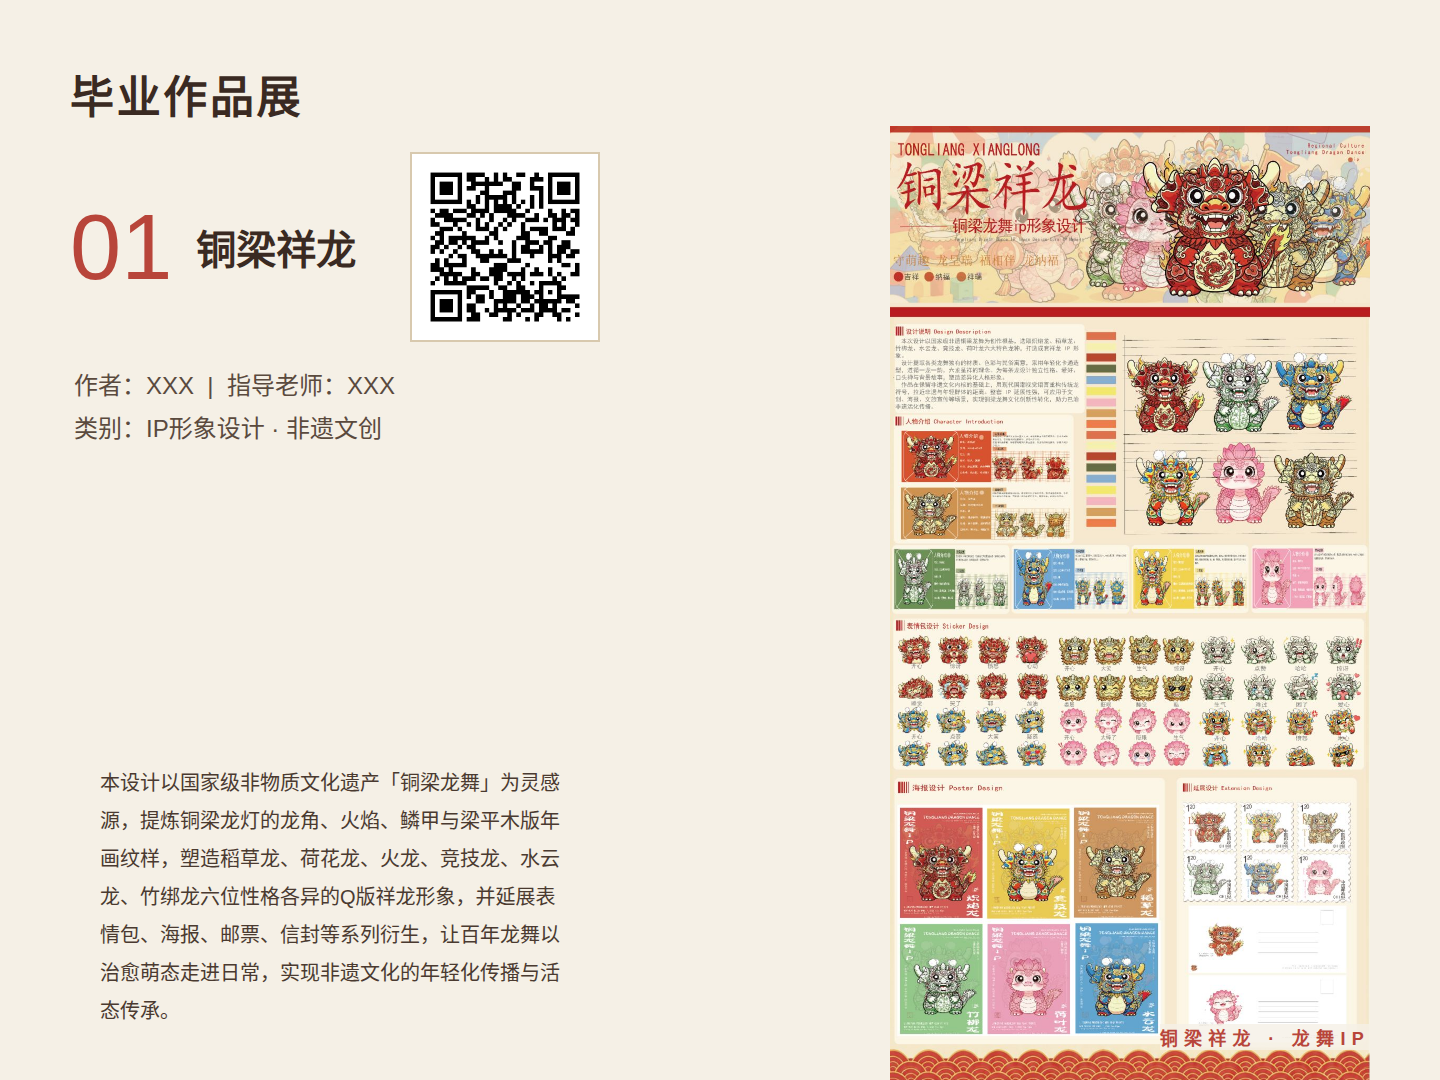
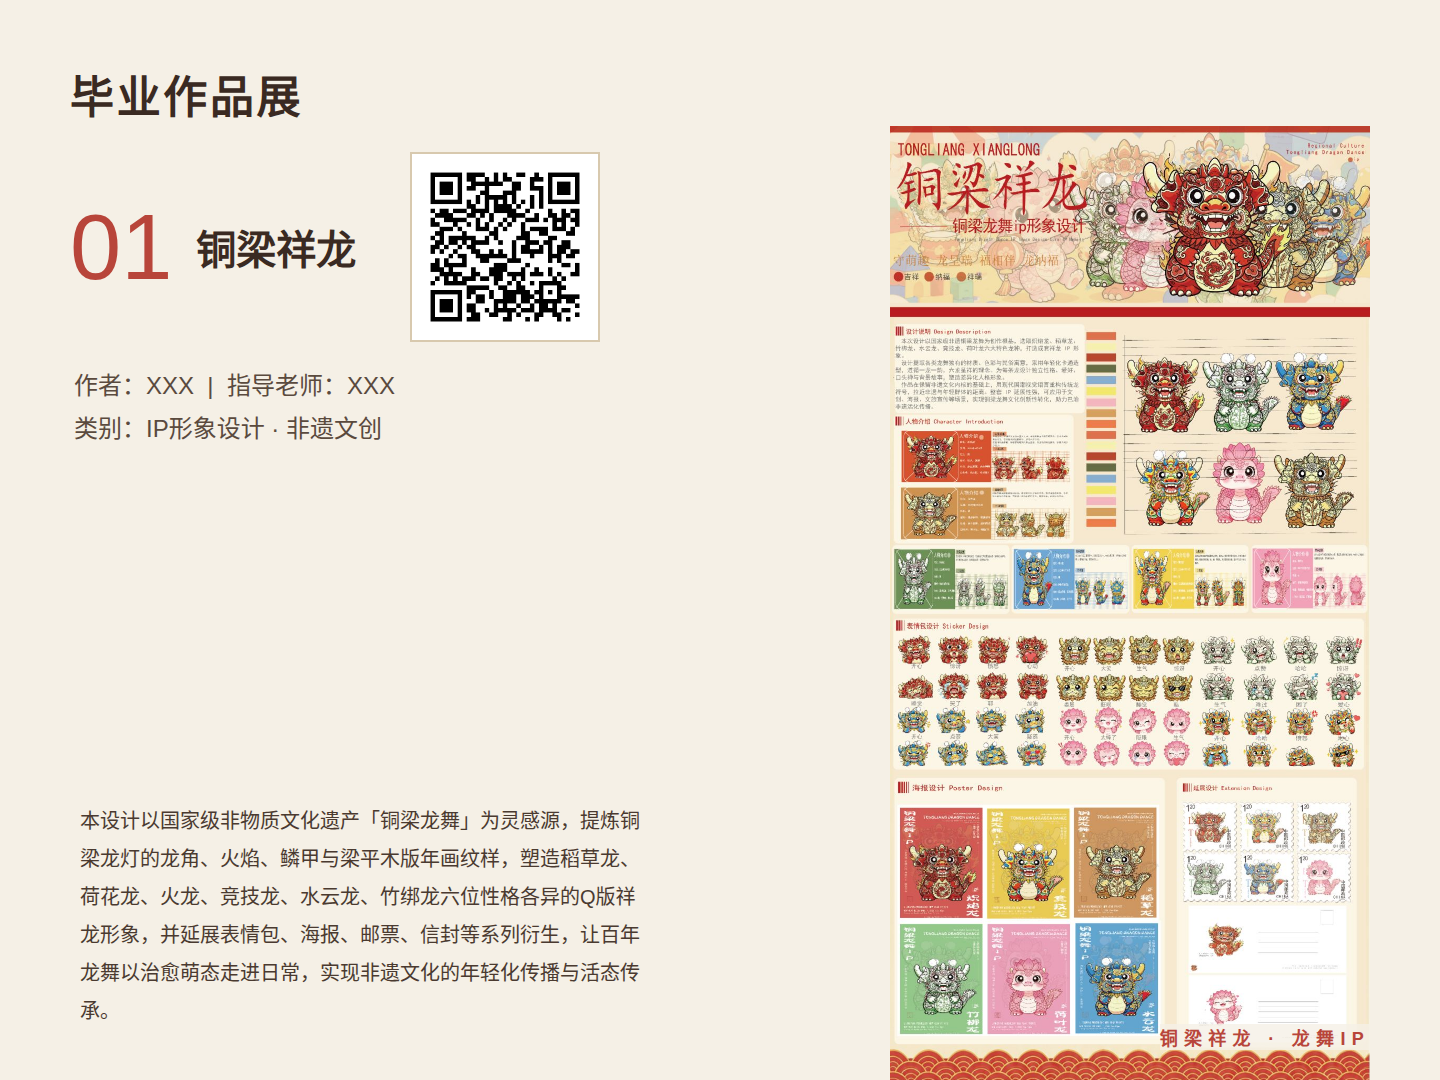
文字框继续拉宽

Changed region(s): [[0.0625, 0.7028, 0.4375, 0.9472]]

diff --git a/thumbnail.html b/thumbnail.html
@@ -17,7 +17,7 @@ h1{font-size:44px;font-weight:900;letter-spacing:.06em}
 .num .n{font-size:92px;font-weight:200;color:#b8453a;line-height:1}
 .num .t{font-size:40px;font-weight:900;white-space:nowrap}
 .meta{margin:22px 0 0 4px;font-size:24px;color:#5a4a3e;line-height:1.8}
-.desc{position:absolute;left:100px;bottom:36px;width:470px;font-size:20px;line-height:1.9;padding-bottom:14px;font-weight:300;color:#4a3a30}
+.desc{position:absolute;left:80px;bottom:36px;width:560px;font-size:20px;line-height:1.9;padding-bottom:14px;font-weight:300;color:#4a3a30}
 .right{flex:1;display:flex;justify-content:flex-end;align-items:flex-start}
 .right img{max-height:960px;object-fit:contain}
 .mark{position:absolute;right:70px;bottom:30px;font-size:18px;letter-spacing:.35em;color:#b8453a;font-weight:700;background:rgba(245,240,230,.8)}
